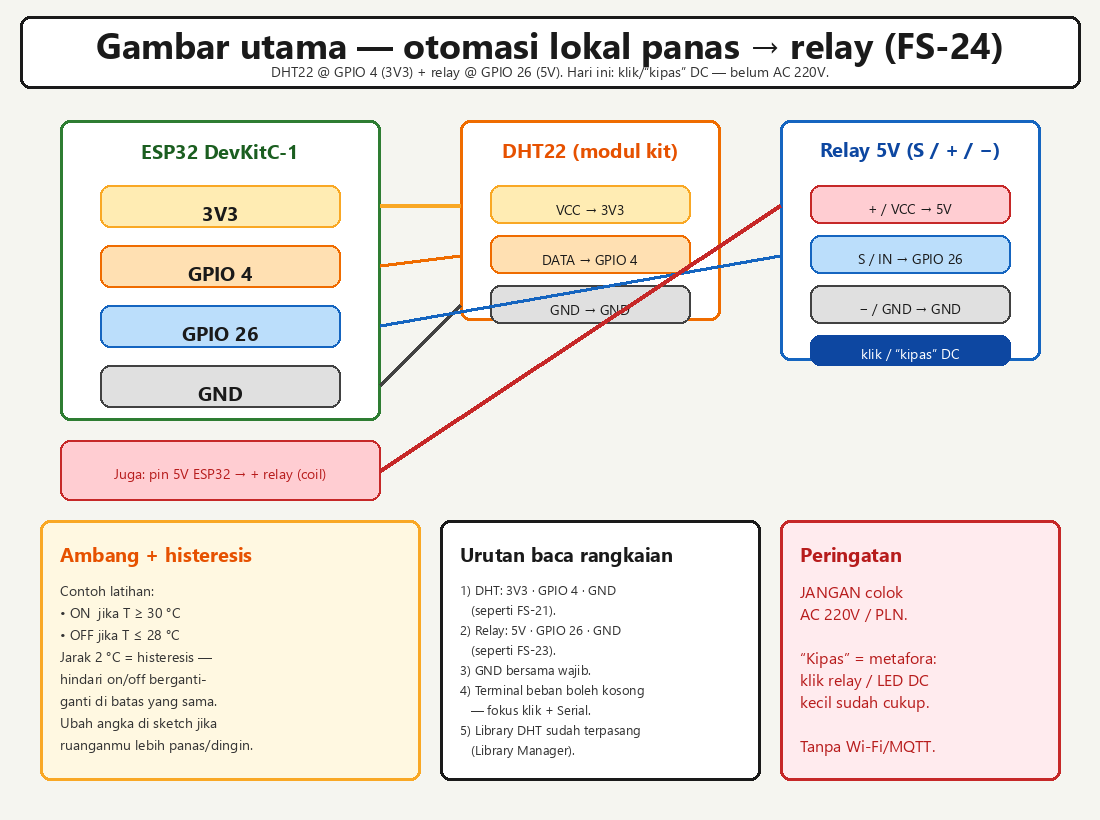
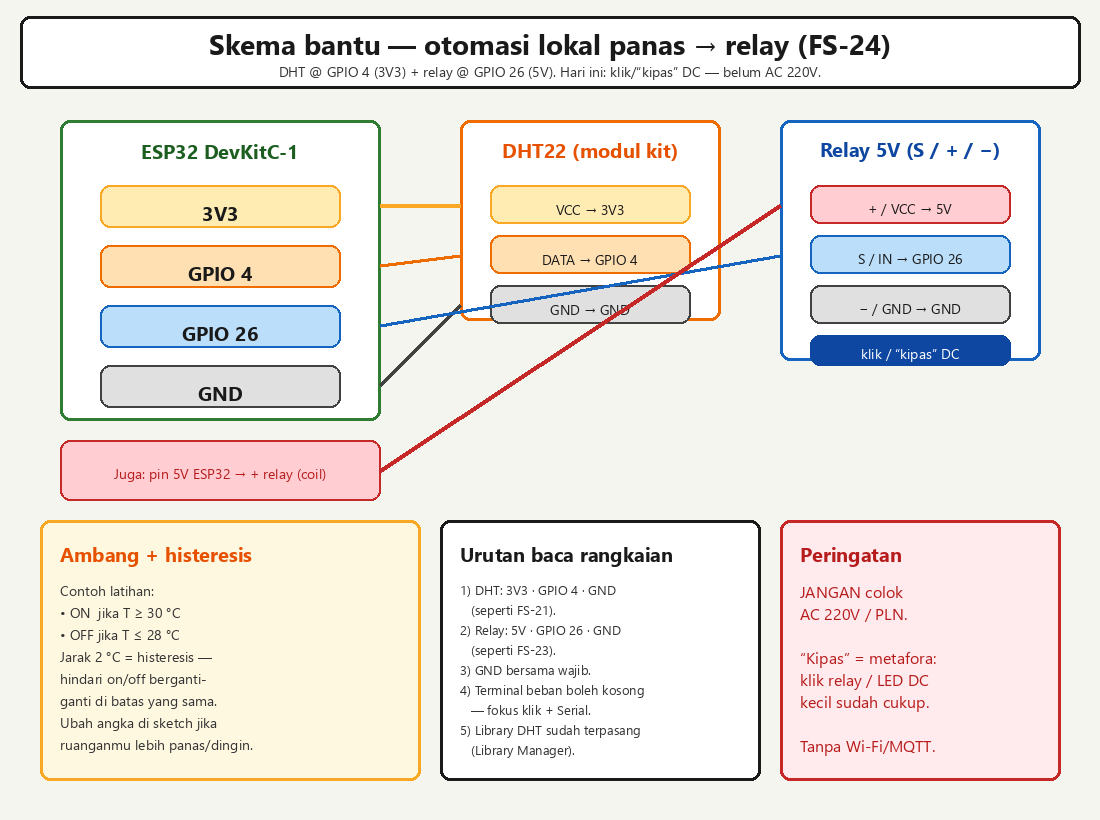
feat(fsiot): #94 gambar utama breadboard otomasi dari rangkaian user
Foto breadboard jadi gambar utama (IO4+IO26, 3V3/5V); skema kotak jadi skema bantu. Tip DHT11 vs DHT22. Audit 79/79.

Changed region(s): [[0.0927, 0.0305, 0.9273, 0.0915]]

diff --git a/database/seeders/Article94Seeder.php b/database/seeders/Article94Seeder.php
@@ -186,9 +186,9 @@ HTML;
     {
         return <<<'HTML'
 <figure style="margin:1.5rem 0;max-width:100%;background:#F5F5F0;border:2.5px solid #1a1a1a;border-radius:8px;padding:0.75rem 0.75rem 0.35rem">
-  <img src="/images/fsiot/fs24-otomasi-wiring.png" width="1100" height="820" alt="Gambar utama — rangkaian otomasi DHT22 GPIO 4 + relay GPIO 26" loading="eager" style="width:100%;height:auto;max-height:560px;object-fit:contain;border-radius:6px;background:#fff">
+  <img src="/images/fsiot/fs24-otomasi-breadboard.png" width="1472" height="762" alt="Gambar utama — rangkaian otomasi DHT GPIO 4 + relay GPIO 26 di breadboard" loading="eager" style="width:100%;height:auto;max-height:560px;object-fit:contain;border-radius:6px;background:#fff">
   <figcaption style="font-size:0.85rem;margin-top:0.5rem;color:#1a1a1a;">
-    <strong>Gambar utama — otomasi lokal di breadboard.</strong> DHT22: <strong>3V3</strong> → VCC · <strong>GPIO 4 / IO4</strong> → DATA · <strong>GND</strong> → GND. Relay: <strong>5V</strong> → pin <strong>+</strong> (VCC) · <strong>GPIO 26 / IO26</strong> → pin <strong>S</strong> (IN) · <strong>GND</strong> → pin <strong>−</strong>. Ground ESP32, DHT, dan relay <strong>bersama</strong>. Terminal sekrup NC/COM/NO boleh kosong — yang penting klik + LED <em>ON</em> saat “panas”.
+    <strong>Gambar utama — rangkaian otomasi di breadboard.</strong> Kuning: <strong>IO4 / GPIO 4</strong> → DATA sensor · oranye: <strong>3V3</strong> → VCC sensor · biru: <strong>IO26 / GPIO 26</strong> → pin <strong>S</strong> relay · merah: <strong>5V</strong> → pin <strong>+</strong> relay · hitam: <strong>GND</strong> bersama. Terminal NC/COM/NO boleh kosong. Bentuk sensor di diagram bisa mirip DHT11/DHT22 — cocokkan silkscreen modulmu; sketch default = <strong>DHT22</strong> (ubah <code>DHTTYPE</code> jika DHT11).
     <br>Sumber gambar: diagram rangkaian buatan Koding Indonesia (FS-24).
   </figcaption>
 </figure>
@@ -199,14 +199,41 @@ HTML;
     {
         return <<<'HTML'
 <figure style="margin:1.5rem 0;max-width:100%;background:#F5F5F0;border:2.5px solid #1a1a1a;border-radius:8px;padding:0.75rem 0.75rem 0.35rem">
-  <img src="/images/fsiot/fs24-otomasi-wiring.png" width="1100" height="820" alt="Main figure — automation wiring DHT22 GPIO 4 + relay GPIO 26" loading="eager" style="width:100%;height:auto;max-height:560px;object-fit:contain;border-radius:6px;background:#fff">
+  <img src="/images/fsiot/fs24-otomasi-breadboard.png" width="1472" height="762" alt="Main figure — DHT GPIO 4 + relay GPIO 26 breadboard automation" loading="eager" style="width:100%;height:auto;max-height:560px;object-fit:contain;border-radius:6px;background:#fff">
   <figcaption style="font-size:0.85rem;margin-top:0.5rem;color:#1a1a1a;">
-    <strong>Main figure — local automation on a breadboard.</strong> DHT22: <strong>3V3</strong> → VCC · <strong>GPIO 4 / IO4</strong> → DATA · <strong>GND</strong> → GND. Relay: <strong>5V</strong> → module <strong>+</strong> (VCC) · <strong>GPIO 26 / IO26</strong> → <strong>S</strong> (IN) · <strong>GND</strong> → <strong>−</strong>. ESP32, DHT, and relay share one <strong>common ground</strong>. NC/COM/NO screw terminals may stay empty — the click + <em>ON</em> LED when “hot” matter most.
+    <strong>Main figure — local automation on a breadboard.</strong> Yellow: <strong>IO4 / GPIO 4</strong> → sensor DATA · orange: <strong>3V3</strong> → sensor VCC · blue: <strong>IO26 / GPIO 26</strong> → relay <strong>S</strong> · red: <strong>5V</strong> → relay <strong>+</strong> · black: shared <strong>GND</strong>. NC/COM/NO may stay empty. The sensor part may look like DHT11 or DHT22 — match your module silkscreen; sketch default = <strong>DHT22</strong> (change <code>DHTTYPE</code> for DHT11).
     <br>Image source: wiring diagram by Koding Indonesia (FS-24).
   </figcaption>
 </figure>
 HTML;
     }
+
+    private function schemaWiringFigureId(): string
+    {
+        return <<<'HTML'
+<figure style="margin:1.5rem 0;max-width:100%;background:#F5F5F0;border:2.5px solid #1a1a1a;border-radius:8px;padding:0.75rem 0.75rem 0.35rem">
+  <img src="/images/fsiot/fs24-otomasi-wiring.png" width="1100" height="820" alt="Skema bantu — ringkasan pin DHT GPIO 4 + relay GPIO 26" loading="eager" style="width:100%;height:auto;max-height:520px;object-fit:contain;border-radius:6px;background:#F5F5F0">
+  <figcaption style="font-size:0.85rem;margin-top:0.5rem;color:#1a1a1a;">
+    <strong>Skema bantu (ringkas).</strong> Sama dengan gambar utama: DHT 3V3/GPIO 4/GND · relay 5V/GPIO 26/GND · histeresis ON 30 °C / OFF 28 °C. Pakai ini jika kamu lebih nyaman membaca kotak pin daripada foto breadboard.
+    <br>Sumber gambar: diagram berlabel buatan Koding Indonesia (FS-24).
+  </figcaption>
+</figure>
+HTML;
+    }
+
+    private function schemaWiringFigureEn(): string
+    {
+        return <<<'HTML'
+<figure style="margin:1.5rem 0;max-width:100%;background:#F5F5F0;border:2.5px solid #1a1a1a;border-radius:8px;padding:0.75rem 0.75rem 0.35rem">
+  <img src="/images/fsiot/fs24-otomasi-wiring.png" width="1100" height="820" alt="Helper schematic — DHT GPIO 4 + relay GPIO 26 pin summary" loading="eager" style="width:100%;height:auto;max-height:520px;object-fit:contain;border-radius:6px;background:#F5F5F0">
+  <figcaption style="font-size:0.85rem;margin-top:0.5rem;color:#1a1a1a;">
+    <strong>Helper schematic.</strong> Same as the main figure: DHT 3V3/GPIO 4/GND · relay 5V/GPIO 26/GND · hysteresis ON 30 °C / OFF 28 °C. Use this if you prefer labeled pin boxes over the breadboard photo.
+    <br>Image source: labeled diagram by Koding Indonesia (FS-24).
+  </figcaption>
+</figure>
+HTML;
+    }
+
 
     private function helperDhtFigureId(): string
     {
@@ -425,6 +452,7 @@ SVG;
         $kitDht = $this->kitDhtFigureId();
         $kitRelay = $this->kitRelayFigureId();
         $main = $this->mainWiringFigureId();
+        $schema = $this->schemaWiringFigureId();
         $helperDht = $this->helperDhtFigureId();
         $helperRelay = $this->helperRelayFigureId();
         $sense = $this->senseSvgId();
@@ -439,7 +467,7 @@ SVG;
 <p><strong>Prasyarat:</strong> FS-21 (DHT22 ke Serial) · FS-23 (relay klik aman) · FS-14 (kebiasaan Upload + Serial Monitor). Pin mengikuti tabel FS-16 / FS-17.</p>
 <p><strong>Cara pakai artikel ini (urutan kerja):</strong></p>
 <ol>
-<li>Rakit wiring DHT <strong>dan</strong> relay (lihat gambar utama).</li>
+<li>Rakit wiring DHT <strong>dan</strong> relay (cocokkan gambar utama (foto breadboard)).</li>
 <li><strong>Buka Arduino IDE dulu</strong> (bukan Laragon / terminal web).</li>
 <li>Pastikan library DHT ada di <strong>Library Manager</strong> (kalau belum, install seperti FS-21).</li>
 <li>Buat sketch <code>FS24_panas_relay</code> → salin kode → <strong>Verify</strong> → <strong>Upload</strong>.</li>
@@ -465,6 +493,7 @@ SVG;
 {$kitDht}
 {$kitRelay}
 {$main}
+{$schema}
 {$helperDht}
 {$helperRelay}
 
@@ -593,6 +622,7 @@ HTML;
         $kitDht = $this->kitDhtFigureEn();
         $kitRelay = $this->kitRelayFigureEn();
         $main = $this->mainWiringFigureEn();
+        $schema = $this->schemaWiringFigureEn();
         $helperDht = $this->helperDhtFigureEn();
         $helperRelay = $this->helperRelayFigureEn();
         $sense = $this->senseSvgEn();
@@ -633,6 +663,7 @@ HTML;
 {$kitDht}
 {$kitRelay}
 {$main}
+{$schema}
 {$helperDht}
 {$helperRelay}
 

diff --git a/scripts/audit-article94.php b/scripts/audit-article94.php
@@ -55,12 +55,16 @@ check('H2 parity', substr_count($id, '<h2') === substr_count($en, '<h2'));
 check('figures both >= 9', substr_count($id, '<figure') >= 9 && substr_count($en, '<figure') >= 9);
 
 check('wiring PNG asset', str_contains($id, 'fs24-otomasi-wiring.png') && is_file(__DIR__.'/../public/images/fsiot/fs24-otomasi-wiring.png'));
+check('breadboard PNG asset', str_contains($id, 'fs24-otomasi-breadboard.png') && is_file(__DIR__.'/../public/images/fsiot/fs24-otomasi-breadboard.png'));
 check('helper DHT breadboard', str_contains($id, 'fs21-dht22-breadboard.png') && is_file(__DIR__.'/../public/images/fsiot/fs21-dht22-breadboard.png'));
 check('helper relay breadboard', str_contains($id, 'fs23-relay-breadboard.png') && is_file(__DIR__.'/../public/images/fsiot/fs23-relay-breadboard.png'));
 check('Gambar utama label ID', str_contains($id, 'Gambar utama'));
 check('Main figure label EN', str_contains($en, 'Main figure'));
+check('Skema bantu ID', str_contains($id, 'Skema bantu'));
+check('Helper schematic EN', str_contains($en, 'Helper schematic'));
 check('Acuan fisik ID', str_contains($id, 'Acuan fisik'));
 check('Physical reference EN', str_contains($en, 'Physical'));
+check('DHTTYPE tip for DHT11', str_contains($id, 'DHTTYPE') && str_contains($en, 'DHTTYPE'));
 check('S/+/- aliases ID', str_contains($id, 'S / + / −'));
 check('IDE caption warns AnalogReadSerial', str_contains($id, 'AnalogReadSerial') && str_contains($en, 'AnalogReadSerial'));
 check('Serial panel SVG 115200', str_contains($id, 'Baud: 115200') && (str_contains($id, 'kipas=') || str_contains($id, 'ON')));

diff --git a/app/Http/Controllers/DeployController.php b/app/Http/Controllers/DeployController.php
@@ -8588,7 +8588,9 @@ class DeployController extends Controller
             'kit-dht22.jpg',
             'kit-relay-5v.jpg',
             'fs24-otomasi-wiring.png',
+            'fs24-otomasi-breadboard.png',
             'Gambar utama',
+            'Skema bantu',
             'AnalogReadSerial',
             'Baud: 115200',
             '220V',
@@ -8624,7 +8626,9 @@ class DeployController extends Controller
             'Common mistakes',
             'How to test the commands above',
             'Main figure',
+            'Helper schematic',
             'fs24-otomasi-wiring.png',
+            'fs24-otomasi-breadboard.png',
             'AnalogReadSerial',
             'Baud: 115200',
             'ACTIVE_LOW',
